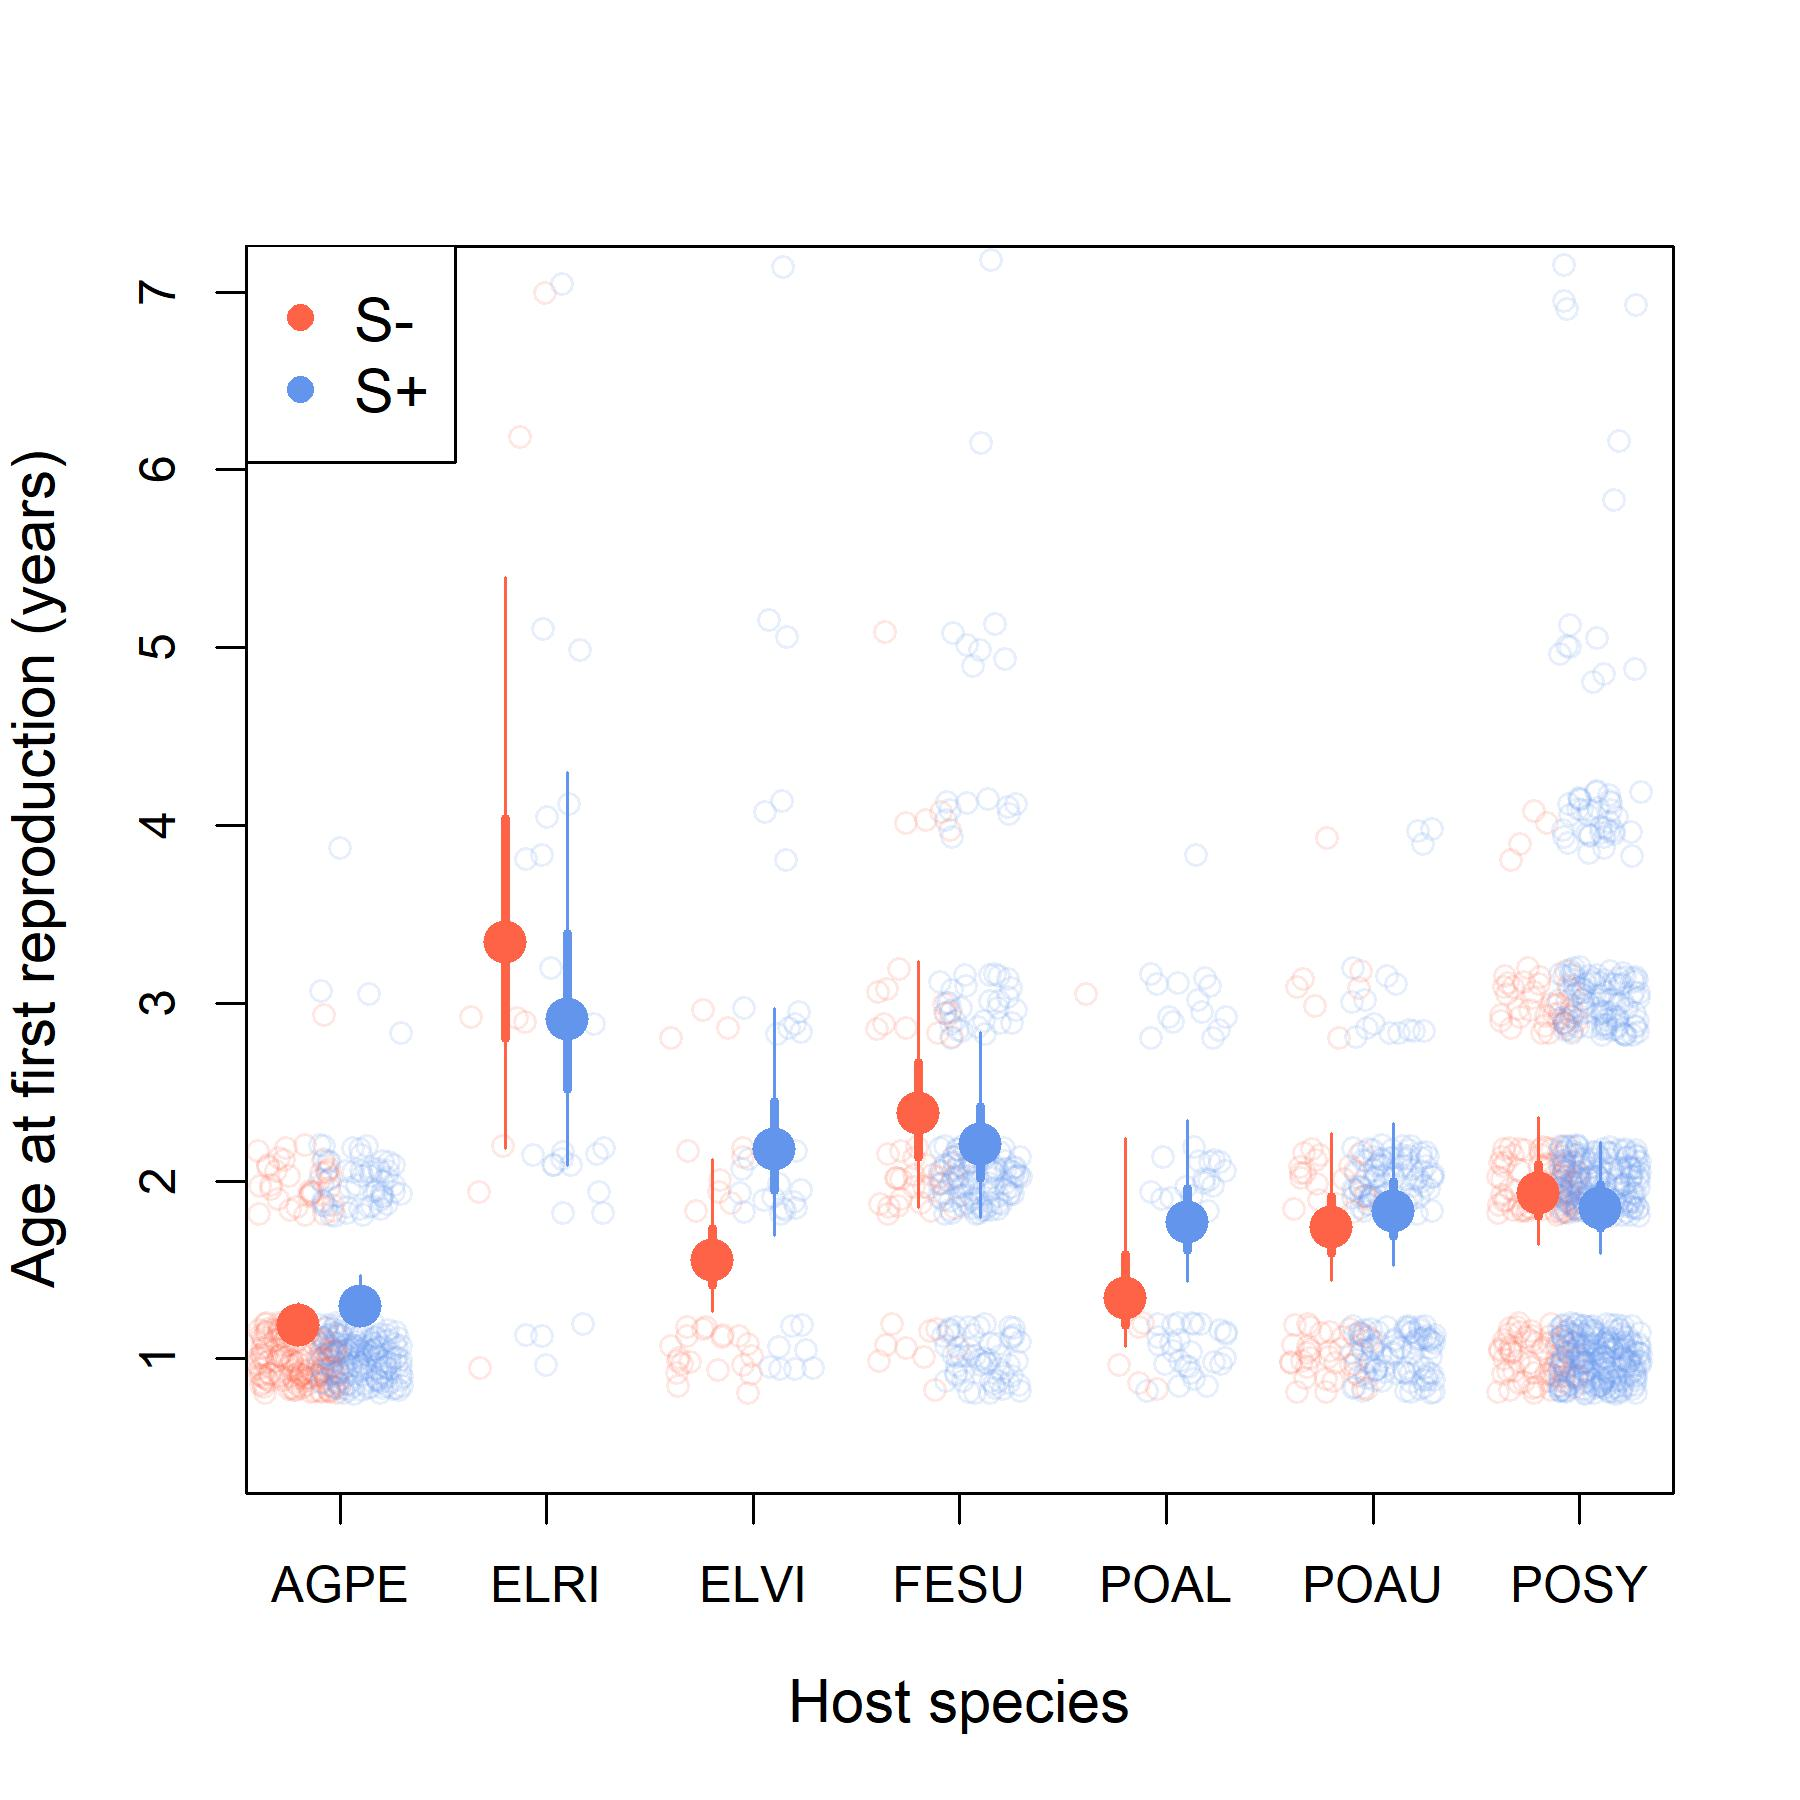
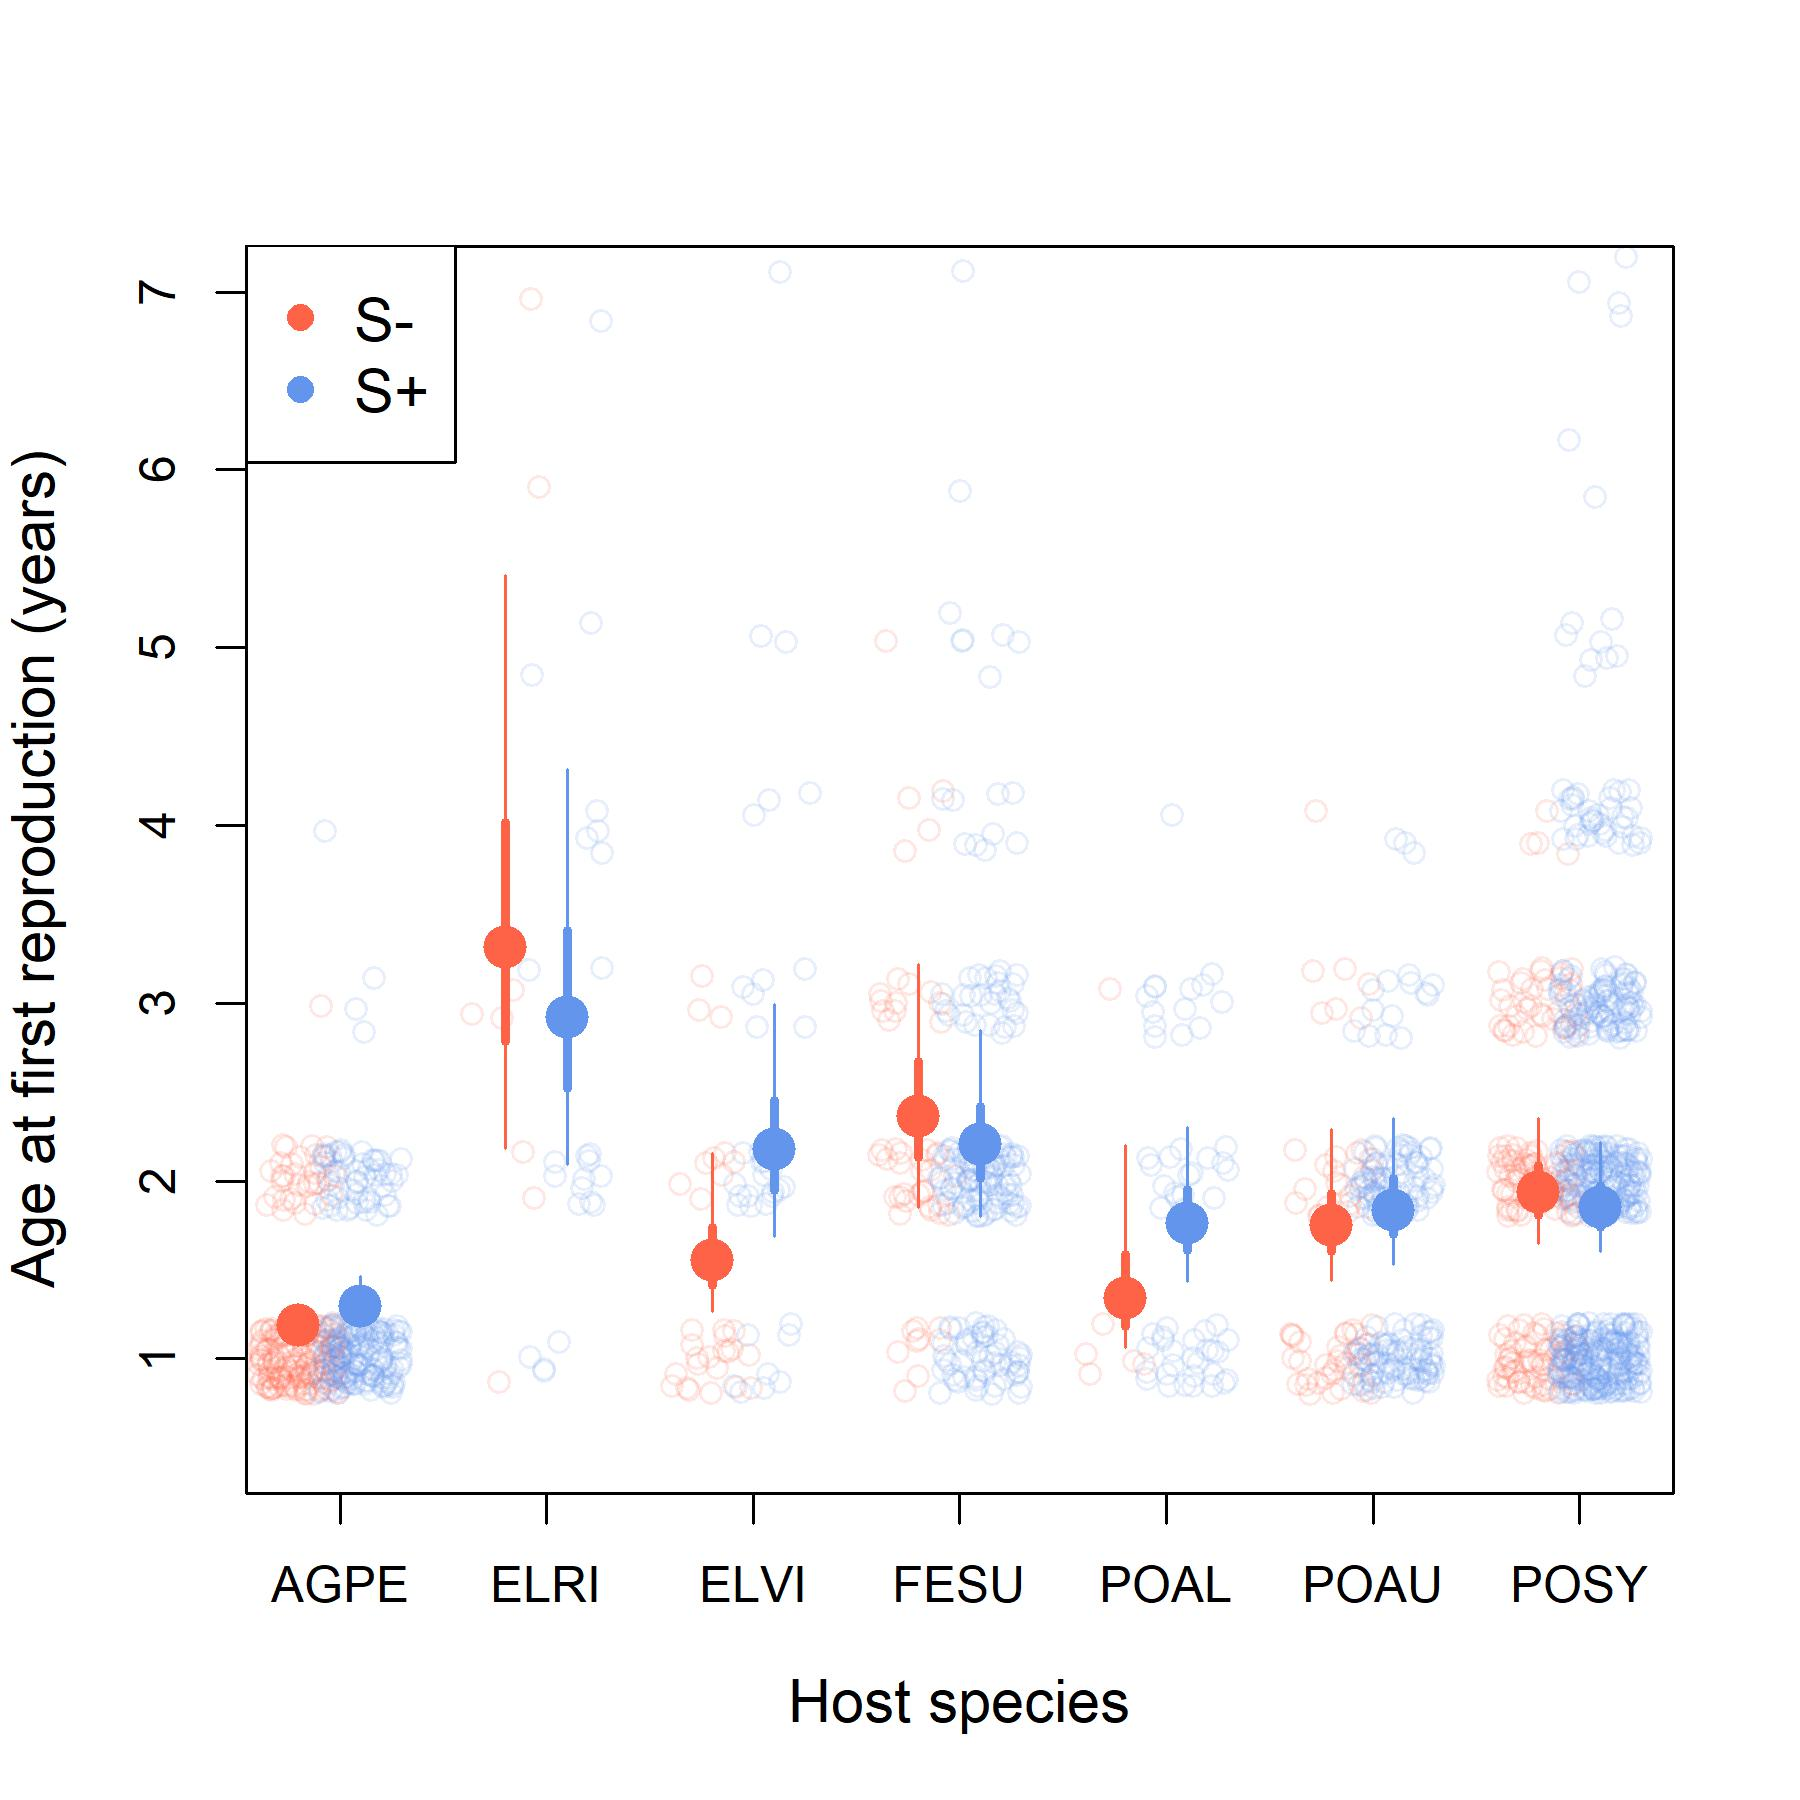
figure and table updates

diff --git a/manuscript/TableS1.tex b/manuscript/TableS1.tex
@@ -7,6 +7,7 @@
 \usepackage{booktabs}   % nice horizontal rules
 \usepackage{array}
 \usepackage{pdflscape}
+\usepackage{multirow}
 
 \begin{document}
 	
@@ -45,5 +46,53 @@
 		\hline
 	\end{tabular}
 \end{table}
+
+\newpage
+\begin{table}[ht]
+	\centering
+	\begin{tabular}{llrrrr}
+		\toprule
+		Host species & Symbiosis & $N$ & Mean lifespan (years) & SD(lifespan) & Proportion that flowered \\
+		\midrule
+		
+		\multirow{2}{*}{\textit{Agrostis perennans}}
+		& S- & 1246 & 0.83 & 1.40 & 0.33 \\
+		& S+ & 1424 & 0.82 & 1.16 & 0.33 \\
+		\midrule
+		
+		\multirow{2}{*}{\textit{Elymus villosus}}
+		& S- & 383 & 0.44 & 1.33 & 0.03 \\
+		& S+ & 617 & 0.57 & 1.26 & 0.06 \\
+		\midrule
+		
+		\multirow{2}{*}{\textit{Elymus virginicus}}
+		& S- & 257 & 1.04 & 1.35 & 0.27 \\
+		& S+ & 483 & 0.81 & 1.44 & 0.13 \\
+		\midrule
+		
+		\multirow{2}{*}{\textit{Festuca subverticillata}}
+		& S- & 1276 & 0.57 & 1.13 & 0.06 \\
+		& S+ & 2919 & 0.67 & 1.40 & 0.11 \\
+		\midrule
+		
+		\multirow{2}{*}{\textit{Poa alsodes}}
+		& S- & 322 & 0.27 & 0.56 & 0.02 \\
+		& S+ & 1767 & 0.55 & 0.97 & 0.05 \\
+		\midrule
+		
+		\multirow{2}{*}{\textit{Poa autumnalis}}
+		& S- & 1106 & 0.36 & 0.92 & 0.07 \\
+		& S+ & 2518 & 0.44 & 0.99 & 0.09 \\
+		\midrule
+		
+		\multirow{2}{*}{\textit{Poa sylvestris}}
+		& S- & 3606 & 0.42 & 1.07 & 0.07 \\
+		& S+ & 9254 & 0.67 & 1.28 & 0.09 \\
+		
+		\bottomrule
+	\end{tabular}
+\end{table}
+
 \end{landscape}	
+
 \end{document}